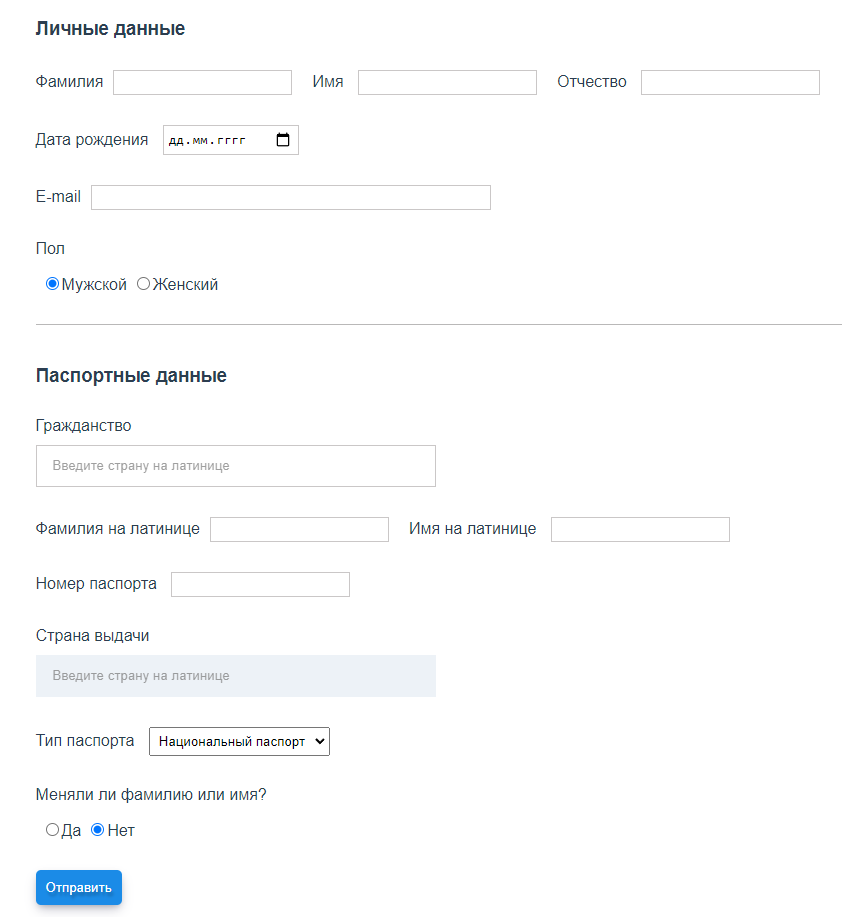
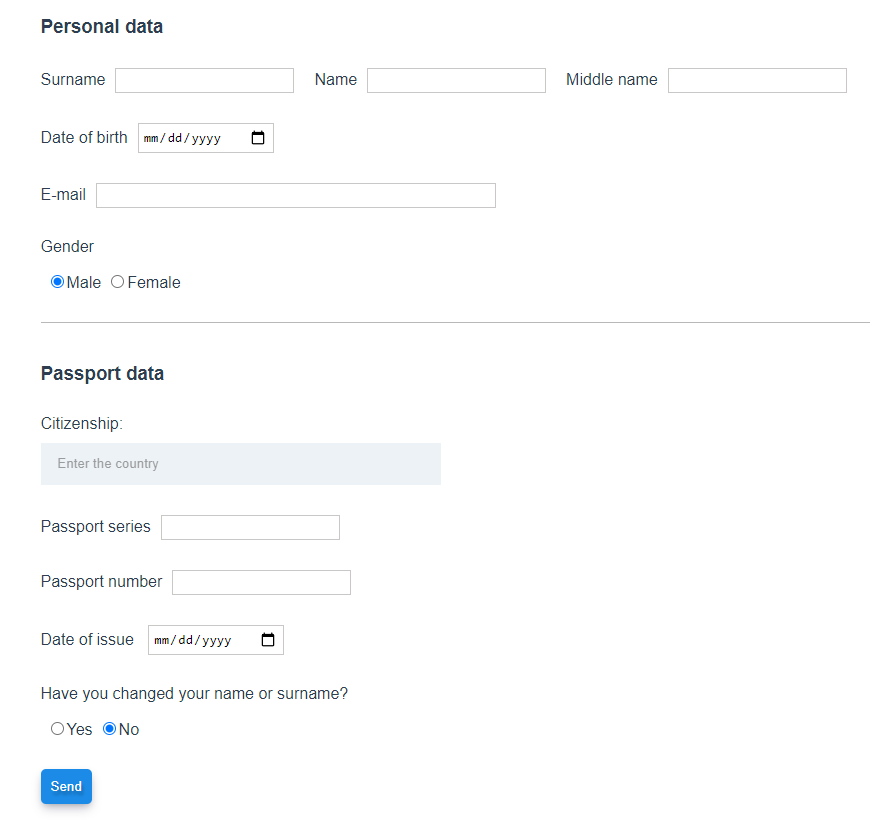
changed readme

diff --git a/src/components/Form.vue b/src/components/Form.vue
@@ -1,10 +1,10 @@
 <template>
   <form @submit.prevent="sendForm" @keyup.enter="checkValidity" class="form">
     <div class="person">
-      <h3 class="form-title">Личные данные</h3>
+      <h3 class="form-title">Personal data</h3>
       <div class="name">
         <div>
-          <label for="surname"> Фамилия</label>
+          <label for="surname">Surname</label>
           <input
             type="text"
             name="surname"
@@ -15,7 +15,7 @@
         </div>
 
         <div>
-          <label for="name"> Имя </label>
+          <label for="name">Name</label>
           <input
             type="text"
             name="name"
@@ -26,7 +26,7 @@
         </div>
 
         <div>
-          <label for="middle-name"> Отчество </label>
+          <label for="middle-name">Middle name</label>
           <input
             type="text"
             name="middle-name"
@@ -38,12 +38,11 @@
       </div>
 
       <div>
-        <label for="birthday"> Дата рождения </label>
+        <label for="birthday">Date of birth</label>
         <input
           type="date"
           name="birthday"
           id="birthday"
-          placeholder="дд.мм.гггг"
           min="1900-01-01"
           :max="formatedDate"
         />
@@ -55,11 +54,11 @@
       </div>
 
       <div>
-        <p>Пол</p>
+        <p>Gender</p>
         <div class="radio">
           <div>
             <input type="radio" id="male" name="gender" value="male" checked />
-            <label for="male">Мужской</label>
+            <label for="male">Male</label>
           </div>
           <div>
             <input
@@ -69,14 +68,14 @@
               value="female"
               required
             />
-            <label for="female">Женский</label>
+            <label for="female">Female</label>
           </div>
         </div>
       </div>
     </div>
 
     <div class="passport">
-      <h3 class="form-title">Паспортные данные</h3>
+      <h3 class="form-title">Passport data</h3>
 
       <Dropdown
         @on-item-selected="citizenship = $event.nationality"
@@ -84,12 +83,12 @@
         :input-name="'citizenship-country'"
         :dropdown-id="'citizenship-country'"
       >
-        Гражданство
+        Citizenship:
       </Dropdown>
 
       <div class="russian" v-if="isRussia">
         <div>
-          <label for="passport-series"> Серия паспорта</label>
+          <label for="passport-series"> Passport series</label>
           <input
             type="text"
             name="passport-series"
@@ -100,7 +99,7 @@
         </div>
 
         <div>
-          <label for="passport-number"> Номер паспорта</label>
+          <label for="passport-number"> Passport number</label>
           <input
             type="text"
             name="passport-number"
@@ -111,12 +110,11 @@
         </div>
 
         <div>
-          <label for="passport-date"> Дата выдачи </label>
+          <label for="passport-date"> Date of issue </label>
           <input
             type="date"
             name="passport-date"
             id="passport-date"
-            placeholder="дд.мм.гггг"
             min="1900-01-01"
             :max="formatedDate"
           />
@@ -126,7 +124,7 @@
       <div class="foreign" v-else>
         <div class="name">
           <div>
-            <label for="surname-latin"> Фамилия на латинице</label>
+            <label for="surname-latin"> Surname </label>
             <input
               type="text"
               name="surname-latin"
@@ -137,7 +135,7 @@
           </div>
 
           <div>
-            <label for="name-latin"> Имя на латинице </label>
+            <label for="name-latin"> Name </label>
             <input
               type="text"
               name="name-latin"
@@ -150,7 +148,7 @@
 
         <div>
           <label>
-            Номер паспорта
+            Passport number
             <input
               type="number"
               name="foreign-passport-number"
@@ -164,11 +162,11 @@
           @on-item-reset="passportCountry = ''"
           :input-name="'passport-country'"
           :dropdown-id="'passport-country'"
-          >Страна выдачи</Dropdown
+          >Place of issue</Dropdown
         >
 
         <div class="passport-type">
-          <label for="passport-type">Тип паспорта </label>
+          <label for="passport-type">Passport type </label>
           <select id="passport-type" name="passport-type">
             <option
               v-for="(passport, i) in passportTypes"
@@ -182,7 +180,7 @@
       </div>
 
       <div>
-        <p>Меняли ли фамилию или имя?</p>
+        <p>Have you changed your name or surname?</p>
         <div class="radio">
           <div>
             <input
@@ -192,7 +190,7 @@
               value="yes"
               v-model="isChanged"
             />
-            <label for="yes">Да</label>
+            <label for="yes">Yes</label>
           </div>
 
           <div>
@@ -203,14 +201,14 @@
               value="no"
               v-model="isChanged"
             />
-            <label for="no">Нет</label>
+            <label for="no">No</label>
           </div>
         </div>
       </div>
 
       <div v-if="isChanged === 'yes'" class="name">
         <div>
-          <label for="previous-surname"> Предыдущая Фамилия </label>
+          <label for="previous-surname"> Previous surname </label>
           <input
             type="text"
             name="previous-surname"
@@ -221,7 +219,7 @@
         </div>
 
         <div>
-          <label for="previous-name"> Предыдущее Имя </label>
+          <label for="previous-name"> Previous name </label>
           <input
             type="text"
             name="previous-name"
@@ -234,16 +232,16 @@
     </div>
 
     <button @click="checkValidity" type="submit" class="submit-button">
-      Отправить
+      Send
     </button>
   </form>
 </template>
 
 <script>
-import citizenships from '../assets/data/citizenships.json'
-import passportTypes from '../assets/data/passport-types.json'
-import { format } from 'date-fns'
-import Dropdown from './Dropdown.vue'
+import citizenships from "../assets/data/citizenships.json";
+import passportTypes from "../assets/data/passport-types.json";
+import { format } from "date-fns";
+import Dropdown from "./Dropdown.vue";
 
 export default {
   components: {
@@ -252,45 +250,45 @@ export default {
   data() {
     return {
       citizenships: citizenships,
-      citizenship: 'Russia',
+      citizenship: "Russia",
       passportTypes: passportTypes,
-      isChanged: 'no',
-      passportCountry: '',
-    }
+      isChanged: "no",
+      passportCountry: "",
+    };
   },
 
   methods: {
     sendForm(event) {
-      const data = new FormData(event.target)
-      const dataArr = Array.from(data).filter((item) => !!item[1])
-      const dataObj = JSON.stringify(Object.fromEntries(dataArr))
-      console.log(dataObj)
+      const data = new FormData(event.target);
+      const dataArr = Array.from(data).filter((item) => !!item[1]);
+      const dataObj = JSON.stringify(Object.fromEntries(dataArr));
+      console.log(dataObj);
     },
 
     checkValidity() {
-      this.$el.querySelectorAll('input').forEach((input) => {
+      this.$el.querySelectorAll("input").forEach((input) => {
         if (!input.validity.valid) {
-          if (!input.classList.contains('invalid')) {
-            input.classList.add('invalid')
+          if (!input.classList.contains("invalid")) {
+            input.classList.add("invalid");
           }
         } else {
-          if (input.classList.contains('invalid')) {
-            input.classList.remove('invalid')
+          if (input.classList.contains("invalid")) {
+            input.classList.remove("invalid");
           }
         }
-      })
+      });
     },
   },
 
   computed: {
     isRussia() {
-      return this.citizenship === 'Russia'
+      return this.citizenship === "Russia";
     },
     formatedDate() {
-      return format(new Date(), 'yyyy-MM-dd')
+      return format(new Date(), "yyyy-MM-dd");
     },
   },
-}
+};
 </script>
 
 <style scoped>
@@ -327,7 +325,7 @@ export default {
   outline: none;
   border: 1px solid rgb(202, 199, 199);
 }
-.form input[type='email'] {
+.form input[type="email"] {
   width: 400px;
 }
 .radio {

diff --git a/src/components/Dropdown.vue b/src/components/Dropdown.vue
@@ -7,7 +7,7 @@
       class="dropdown-input"
       :id="dropdownId"
       type="text"
-      placeholder="Введите страну на латинице"
+      placeholder="Enter the country"
       @click="showDropdown"
       :name="inputName"
     />
